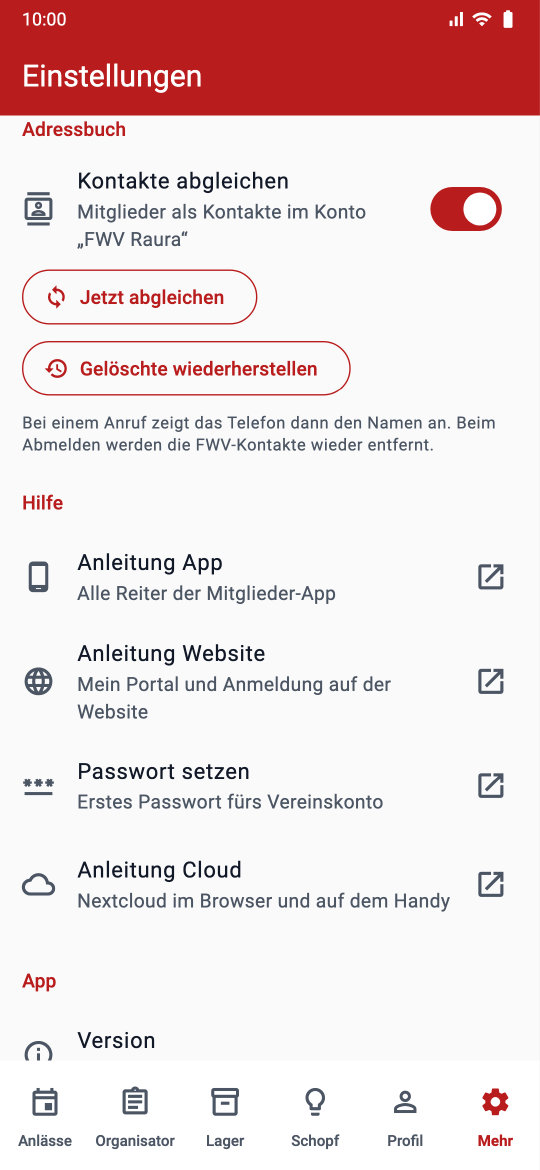
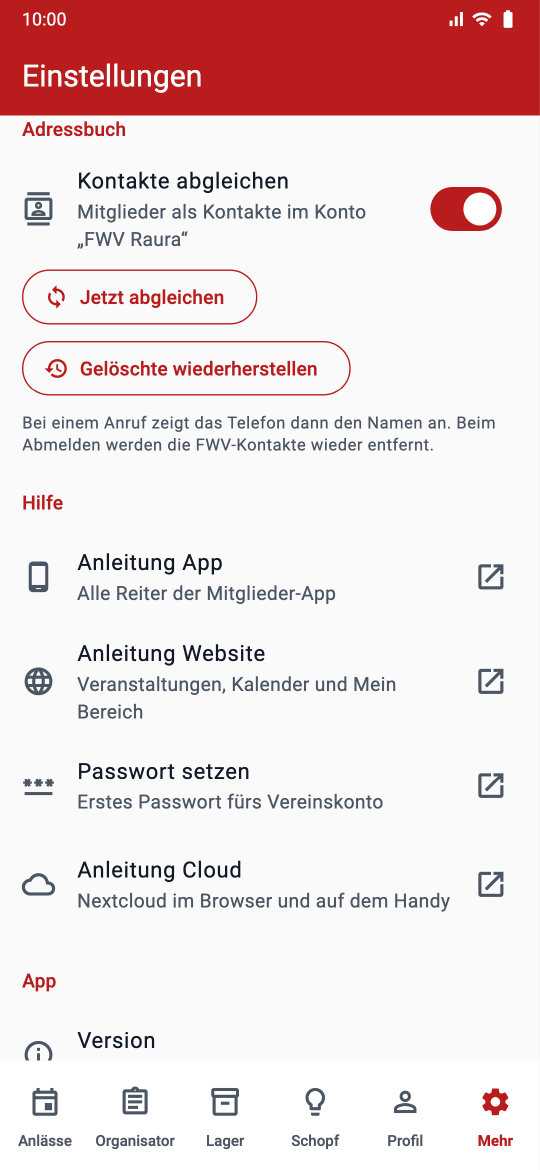
fix(members-app): Hilfe nennt bei der Website-Anleitung Mein Bereich statt Mein Portal
Bilder der Tour neu erzeugt (TOUR=1 flutter test test/tour/bildschirmfotos_test.dart).

Changed region(s): [[0.1481, 0.5538, 0.7111, 0.6154]]

diff --git a/flutter/mitglieder/lib/einstellungen/einstellungen_tab.dart b/flutter/mitglieder/lib/einstellungen/einstellungen_tab.dart
@@ -27,7 +27,7 @@ import 'gruppen_screen.dart';
 final Uri anleitungsBasis = Uri.parse('https://www.fwv-raura.ch/');
 const anleitungen = [
   (Icons.phone_android_outlined, 'Anleitung App', 'Alle Reiter der Mitglieder-App', 'anleitung-app.html'),
-  (Icons.language, 'Anleitung Website', 'Mein Portal und Anmeldung auf der Website', 'anleitung-website.html'),
+  (Icons.language, 'Anleitung Website', 'Veranstaltungen, Kalender und Mein Bereich', 'anleitung-website.html'),
   (Icons.password, 'Passwort setzen', 'Erstes Passwort fürs Vereinskonto', 'anleitung-passwort.html'),
   (Icons.cloud_outlined, 'Anleitung Cloud', 'Nextcloud im Browser und auf dem Handy', 'anleitung-nextcloud.html'),
 ];
